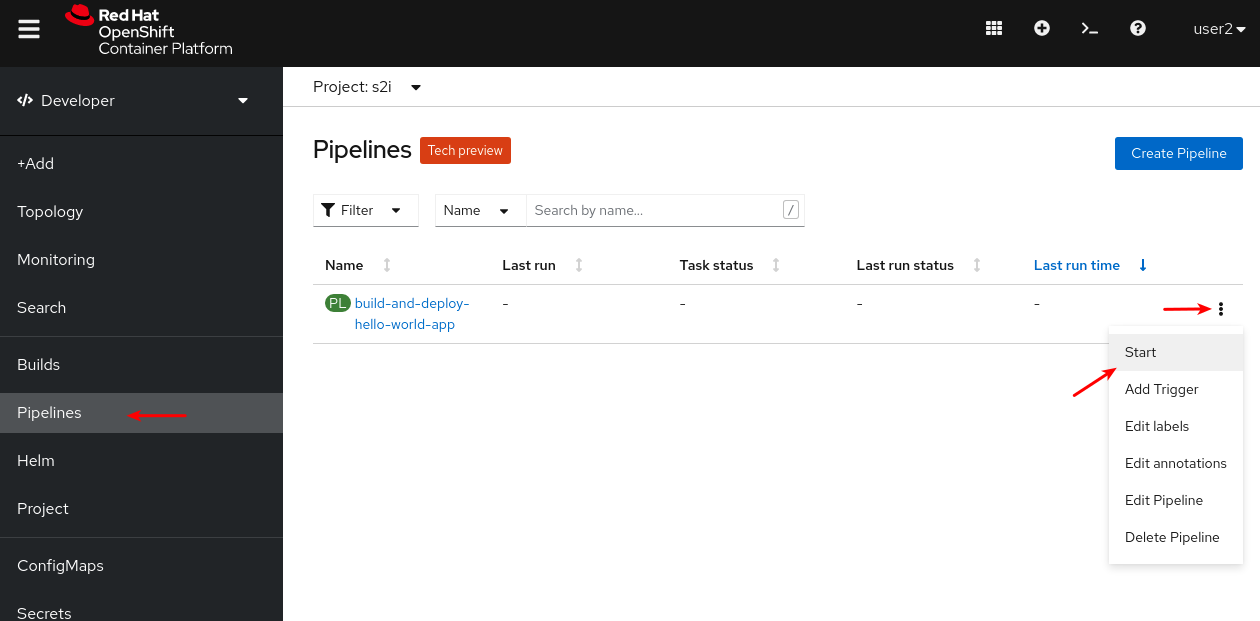
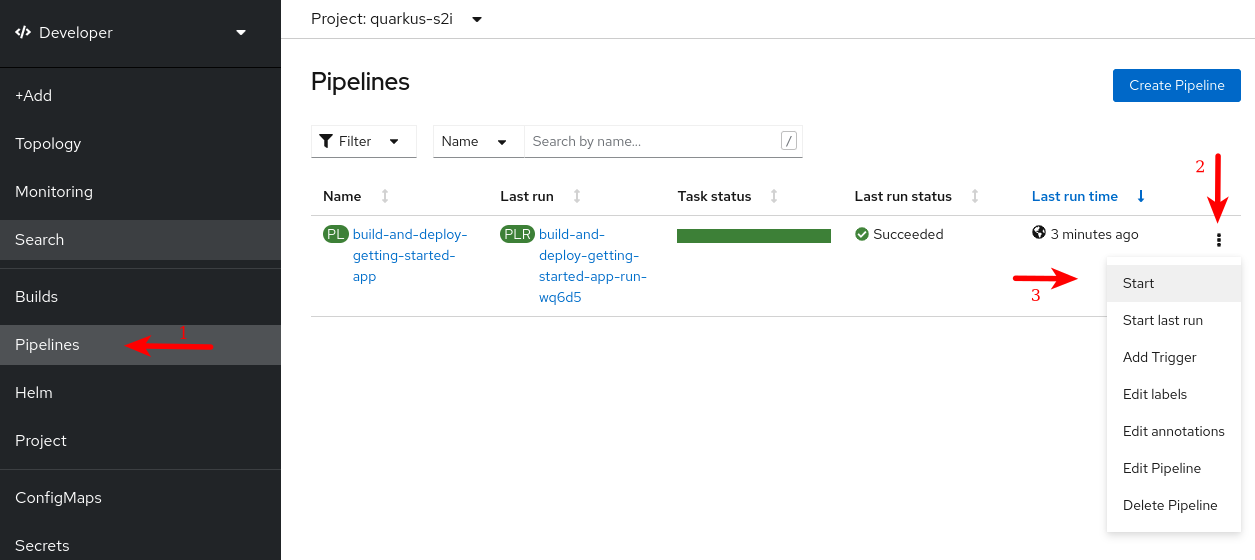
Fix guide (pics, steps, ...)

diff --git a/README.md b/README.md
@@ -9,7 +9,7 @@
 
 * You have installed OpenShift Pipelines CLI (or use the terminal offered by the `Web Terminal` operator)
 
-  ![Web Console Add From Git](images/web_terminal.png)
+  ![Web Terminal](images/web_terminal.png)
 
 * (Optional) You have forked this Git repository using your GitHub ID, and have administrator access to that repository (just for testing the Webhook part)
 
@@ -29,41 +29,41 @@
 
       ![Web Console Add From Git](images/add_from_git.png)
 
-      ![Deploy Hello World App](images/s2i_part1.png)
+      ![Deploy getting-started App](images/s2i_part1.png)
 
-      ![Deploy Hello World App](images/s2i_part2.png)
+      ![Deploy getting-started App](images/s2i_part2.png)
 
       > ![WARNING](images/warning-icon.png) **WARNING**: `Name` is crucial here. You **must** set it to as **getting-started** as you can see in the sreenshot. If you want to change the `Name` to another value, you should change the `deployment-name` value in for the [TriggerTemplate](cicd/resources/02-triggers/getting-started-trigger.yaml).
 
     * From command line:
 
         ```bash
-        oc new-app php:7.4~https://github.com/josgonza-rh/quarkus-s2i-cicd --name=getting-started
+        oc new-app ubi8/openjdk-11~https://github.com/josgonza-rh/quarkus-s2i-cicd --name=getting-started
         ```
 
 3. Create Pipeline
 
     * Using web consle ( `+Add` -> `YAML` ) or the Pipeline menu:
 
-      ![Web Console Add From YAML](images/create_pipeline.png)
+      ![Web Console Add Pipeline](images/create_pipeline.png)
 
     * From command line:
 
         ```bash
-        oc create -f https://raw.githubusercontent.com/josgonza-rh/quarkus-s2i-cicd/main/cicd/resources/01-pipelines/getting-started-pipeline.yaml
+        oc create -f https://raw.githubusercontent.com/josgonza-rh/quarkus-s2i-cicd/main/resources/01-pipelines/getting-started-pipeline.yaml
         ```
 
 4. Running the Pipeline
 
-    * Using web consle ( `Pipeline` -> `Start` )
-
-      ![Web Console Add From YAML](images/run_pipeline.png)
-
     * From command line:
 
         ```bash
-        tkn pipeline start build-and-deploy-getting-started-app -w name=workspace,volumeClaimTemplateFile=https://raw.githubusercontent.com/josgonza-rh/quarkus-s2i-cicd/main/cicd/resources/00-worspaces/getting-started-workspace.yaml -p GIT_REPO=https://github.com/josgonza-rh/quarkus-s2i-cicd
+        tkn pipeline start build-and-deploy-getting-started-app -w name=workspace,volumeClaimTemplateFile=https://raw.githubusercontent.com/josgonza-rh/quarkus-s2i-cicd/main/resources/00-worspaces/getting-started-workspace.yaml -p GIT_REPO=https://github.com/josgonza-rh/quarkus-s2i-cicd
         ```
+
+    * Using web consle ( `Pipeline` -> `Start` )
+
+      ![Web Console Run Pipeline](images/run_pipeline.png)
 
     > ![NOTE](images/note-icon.png) **NOTE**: A `PipelineRun` resource starts a pipeline and ties it to the Git and image resources that should be used for the specific invocation. It automatically creates and starts the `TaskRun` resources for each task in the pipeline.
 
@@ -82,7 +82,7 @@ Triggers enable pipelines to respond to external GitHub events, such as push eve
     * From command line:
 
         ```bash
-        oc create -f https://raw.githubusercontent.com/josgonza-rh/quarkus-s2i-cicd/main/cicd/resources/02-triggers/getting-started-trigger.yaml
+        oc create -f https://raw.githubusercontent.com/josgonza-rh/quarkus-s2i-cicd/main/resources/02-triggers/getting-started-trigger.yaml
         ```
 
 2. Expose the `EventListener` service as an OpenShift Container Platform route to make it publicly accessible:
@@ -104,7 +104,7 @@ Triggers enable pipelines to respond to external GitHub events, such as push eve
     * Open the repositoryin your browser.
     * Click **Settings** → **Webhooks** → **Add Webhook**
 
-        ![Web Console Add From YAML](images/webhook_part1.png)
+        ![GitHub Settings 1](images/webhook_part1.png)
 
     * On the Webhooks/Add Webhook page:
         * Enter the webhook URL from step 1 in Payload URL field
@@ -113,4 +113,8 @@ Triggers enable pipelines to respond to external GitHub events, such as push eve
         * Select **Active**
         * Click **Add Webhook**
 
-      ![Web Console Add From YAML](images/webhook_part2.png)
+      ![GitHub Settings 2](images/webhook_part2.png)
+
+Finally, you can check the `webhook` integration by click in on it, and then, in the **Recent Deliveries** tab:
+
+![GitHub Settings 3](images/webhook_part3.png)
